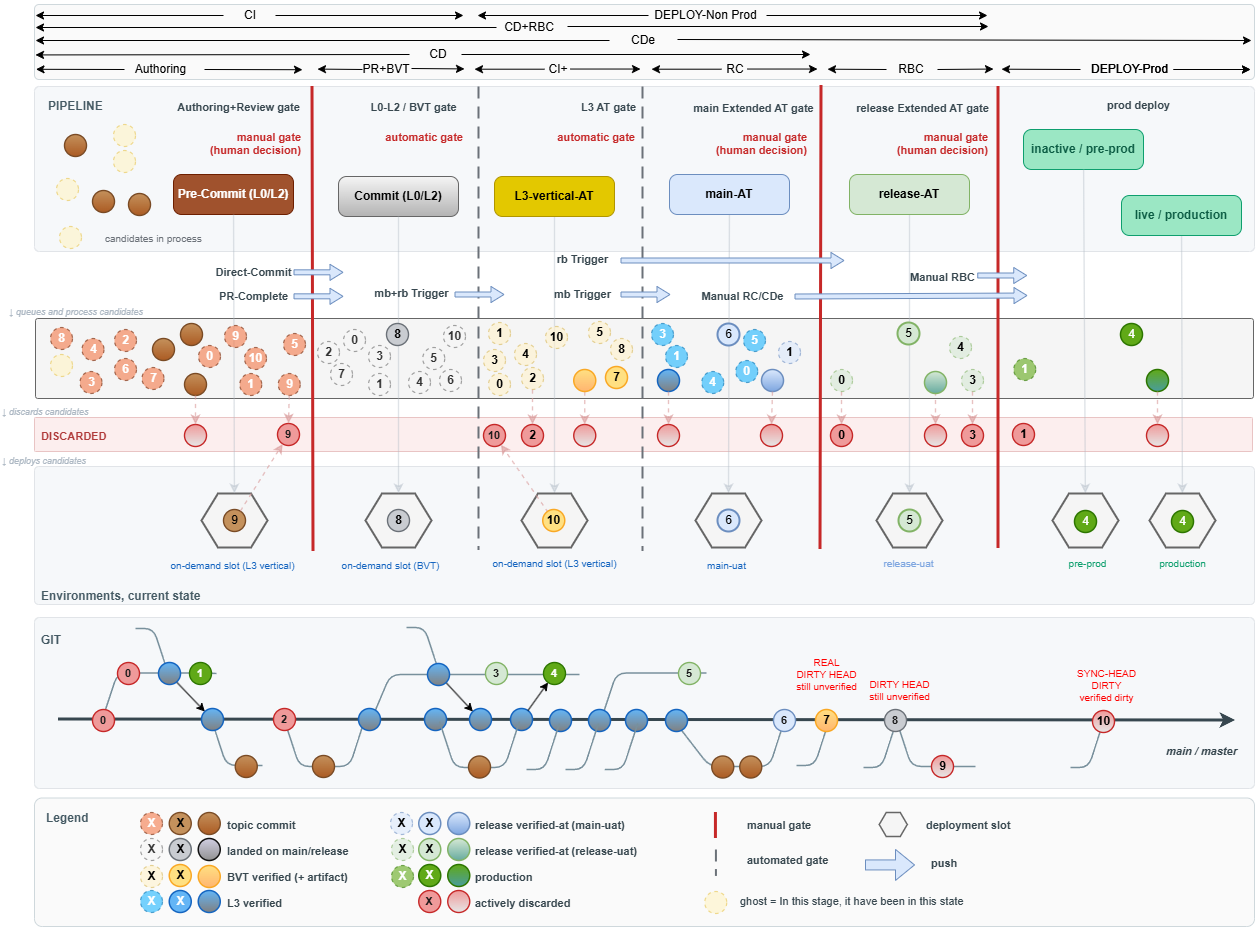
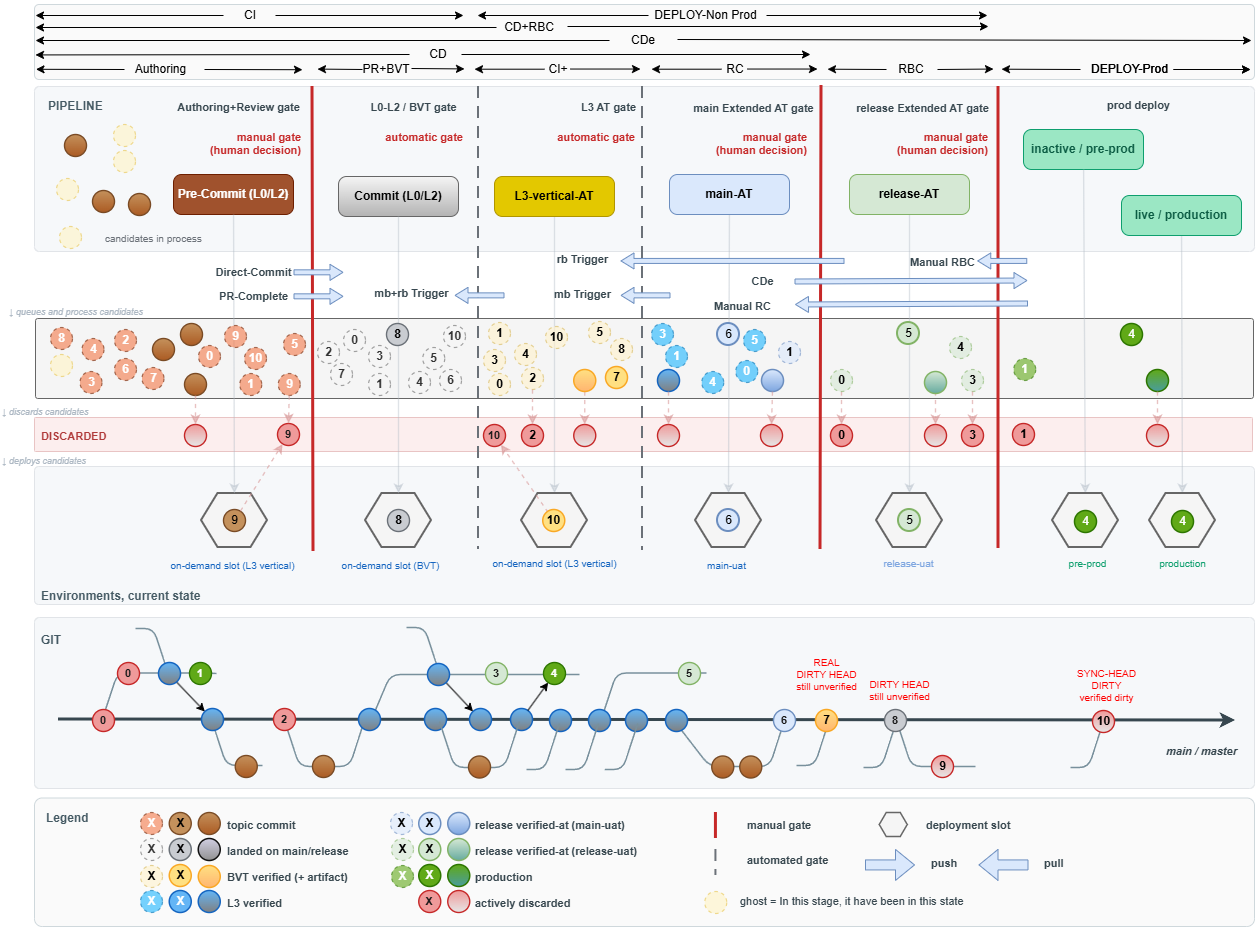
...

diff --git a/docs/adr/design/ci-discipline-and-promotion-flow.md b/docs/adr/design/ci-discipline-and-promotion-flow.md
@@ -120,6 +120,18 @@ artifact is identical across both.
 
 - [Pre-prod, and DEPLOY split non-prod / prod](#pre-prod-and-deploy-split-non-prod--prod)
 
+### Rule ADR-FLOW:12
+
+**Deploy-to-prod is a two-slot activation: stage the artifact _inactive_ in pre-prod, validate the exact bytes, then activate it _live_ to
+production.** DEPLOY-Prod never deploys straight into the serving environment. It first deploys the RBC-cleared artifact to **pre-prod** — a
+production-grade environment that is **not serving live traffic** (the "inactive" slot) — where the identical bytes get a final rehearsal
+against production-shaped dependencies. Only then is that same artifact **activated to live production** (the inactive → live cutover). The
+go-live is therefore a **promotion of already-validated bytes, not a fresh untested deploy**, which is what keeps the production cutover
+low-risk. When the new version goes live, the previous production occupant is superseded and steps down (ADR-LIFE:3/ADR-LIFE:4). Build-once
+holds throughout: pre-prod and production receive the identical tagged artifact (ADR-FLOW:3).
+
+- [Deploy-to-prod: stage inactive, then activate live](#deploy-to-prod-stage-inactive-then-activate-live)
+
 ## Context
 
 [pipeline-types](../pipelines/pipeline-types.md) is the _taxonomy_ — it fixes what each of the six ADO artifact kinds **is**. This ADR is
@@ -314,6 +326,23 @@ Because the deploy activity now spans several environments with different govern
 CD's automated direction covers (ADR-FLOW:5). **DEPLOY-Prod** is the governed deploy of the RBC-cleared artifact through `pre-prod` into
 `production` (ADR-FLOW:6, and [ADR-PIPETYPE:11](../pipelines/pipeline-types.md#rule-adr-pipetype11)). The split is by _target and
 governance_, not by artifact: the same tagged build flows through both, so build-once / deploy-many holds end to end.
+
+### Deploy-to-prod: stage inactive, then activate live
+
+Going to production is not one step of "push the bytes at the live environment." It is two, and separating them is the point. First,
+**DEPLOY-Prod deploys the RBC-cleared artifact into `pre-prod` — a production-grade environment that is _inactive_** (staged, not serving
+live traffic). This is the last place the _exact_ bytes that will go live are exercised against production-shaped dependencies, with real
+production configuration, before any user sees them. Second, once pre-prod is good, **the same artifact is _activated_ to
+`live / production`** — the inactive slot becomes the serving one. The two boxes in the diagram, `inactive / pre-prod` and
+`live / production`, are precisely these two states of the prod deploy: staged-but-dark, then live.
+
+The reason to split them is risk. Because the live cutover is the **activation of bytes already validated in a prod-identical environment**,
+not a fresh deploy of something only ever seen in non-prod, the moment of going live carries almost no new risk — nothing is compiled,
+rendered, or first-run at cutover (build-once, ADR-FLOW:3). What flips is _which slot serves traffic_, not _what the bytes are_. When the
+new version goes live, the previous production occupant is superseded and steps down (ADR-LIFE:4) — the diagram shows the new version
+occupying both `pre-prod` and `production` at the moment of cutover, and the version it replaced leaving. Whether that activation is a
+human-triggered DEPLOY (delivery) or an automated continuation (CDe, deployment) is the posture of ADR-FLOW:6/ADR-FLOW:7; either way the
+mechanic — stage inactive, validate, activate live — is the same.
 
 ## How this is enforced
 